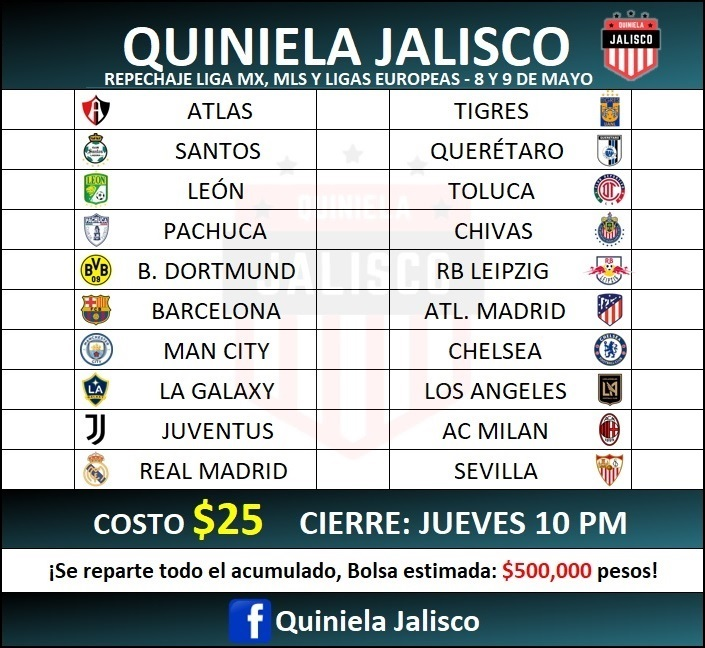
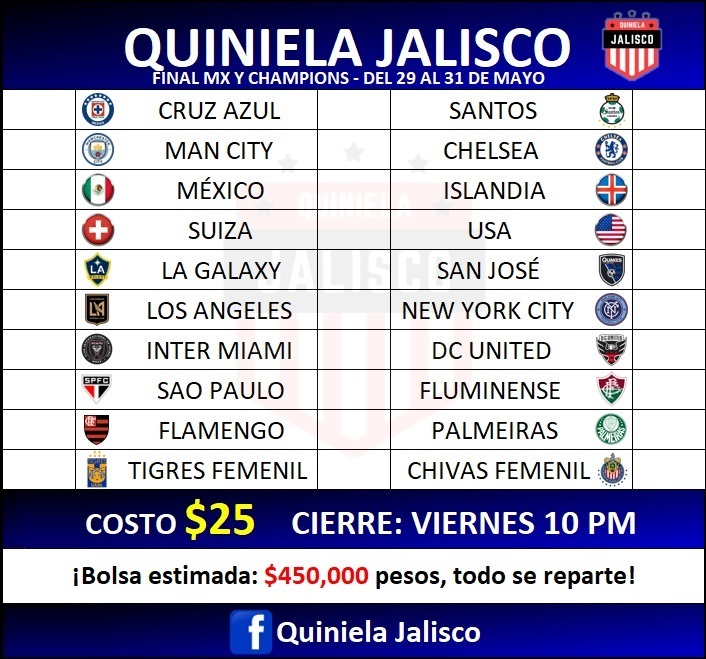
Final C21

diff --git a/index.html b/index.html
@@ -8,18 +8,18 @@
     <meta name="keywords" content="Quiniela, Liga MX, Apostar, Pronósticos">
     <title>Quiniela Jalisco</title>
     <link href="https://fonts.googleapis.com/css2?family=Roboto&display=swap" rel="stylesheet">
-    <link rel="stylesheet" href="styles.css">
+    <link rel="stylesheet" href="10/styles10.css">
     <link rel="icon" href="icon.jpg">
     <link rel="apple-touch-icon" href="icon.jpg">
     <link rel="shortcut icon" href="icon.jpg" type="image/x-icon">
     <script type="module" src="https://unpkg.com/ionicons@5.1.2/dist/ionicons/ionicons.esm.js"></script>
     <script nomodule="" src="https://unpkg.com/ionicons@5.1.2/dist/ionicons/ionicons.js"></script>
-    <script src="main1.js"></script>
+    <script src="10/main10.js"></script>
 </head>
 
 <body>
-    <br><br>
-    <!--<p id='bolsa'>¡Se reparte todo el acumulado!<br> Bolsa estimada: <span style="color:yellow">$500,000</span> pesos</p>-->
+    <br>
+    <br>
     <div class="quiniela" id="quiniela">
         <div class="aux"><h3 style="padding: 5px 7px" onclick="clean()"><ion-icon name="close-outline"></ion-icon></h3></div>
         <div class="partido">
@@ -84,6 +84,13 @@
             <span id="E9" onclick="selection(this)"></span>
             <div id="_"></div>
             <span id="V9" onclick="selection(this)"></span>
+        </div>
+	<div class="partido">
+            <span id="L10" onclick="selection(this)"></span>
+            <div id="_"></div>
+            <span id="E10" onclick="selection(this)"></span>
+            <div id="_"></div>
+            <span id="V10" onclick="selection(this)"></span>
         </div>
         <h1 id="text"></h1>
     </div>

diff --git a/10/styles10.css b/10/styles10.css
@@ -88,8 +88,8 @@ h1{
     margin-top: 8%;
     border: solid 1px black;
     border-radius: 0 0 14px 14px;
-    background: -webkit-linear-gradient(0.04turn, rgb(8,20,20)  ,rgb(39,106,114) 80%);
-    background: linear-gradient(0.04turn, rgb(8,20,20)  ,rgb(39,106,114) 80%);
+    background: -webkit-linear-gradient(0.04turn, rgb(8,20,20)  ,rgb(3,1,190) 80%);
+    background: linear-gradient(0.04turn, rgb(8,20,20)  ,rgb(3,1,190) 80%);
     font-size: x-large;
 }
 
